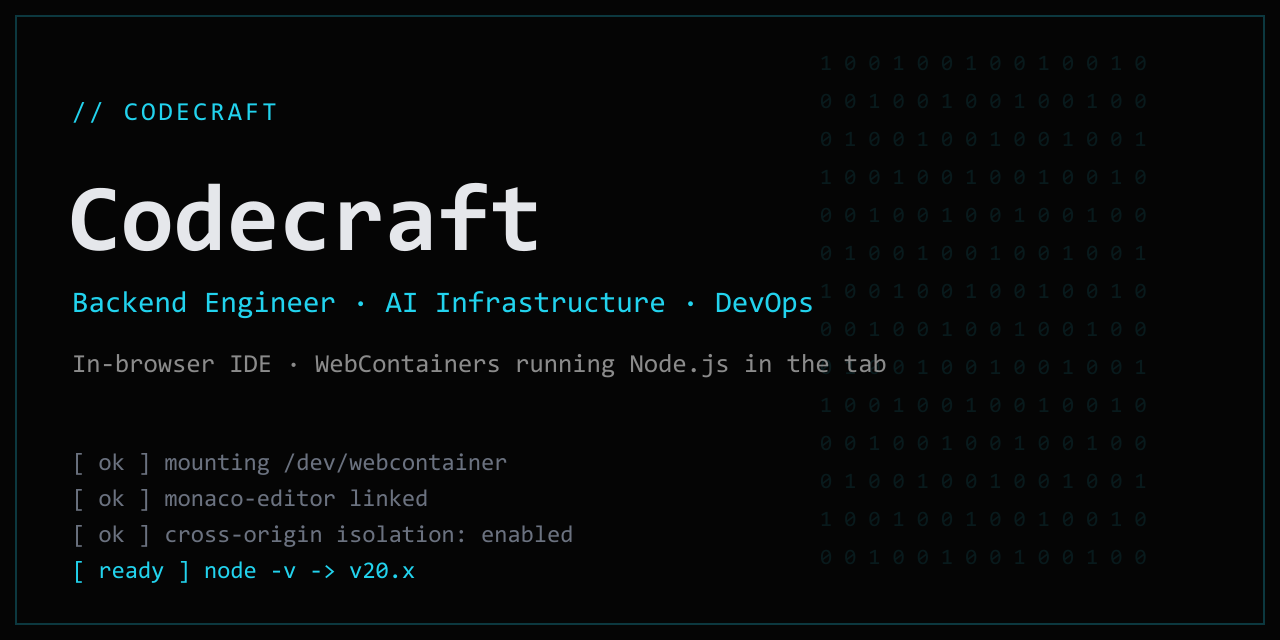
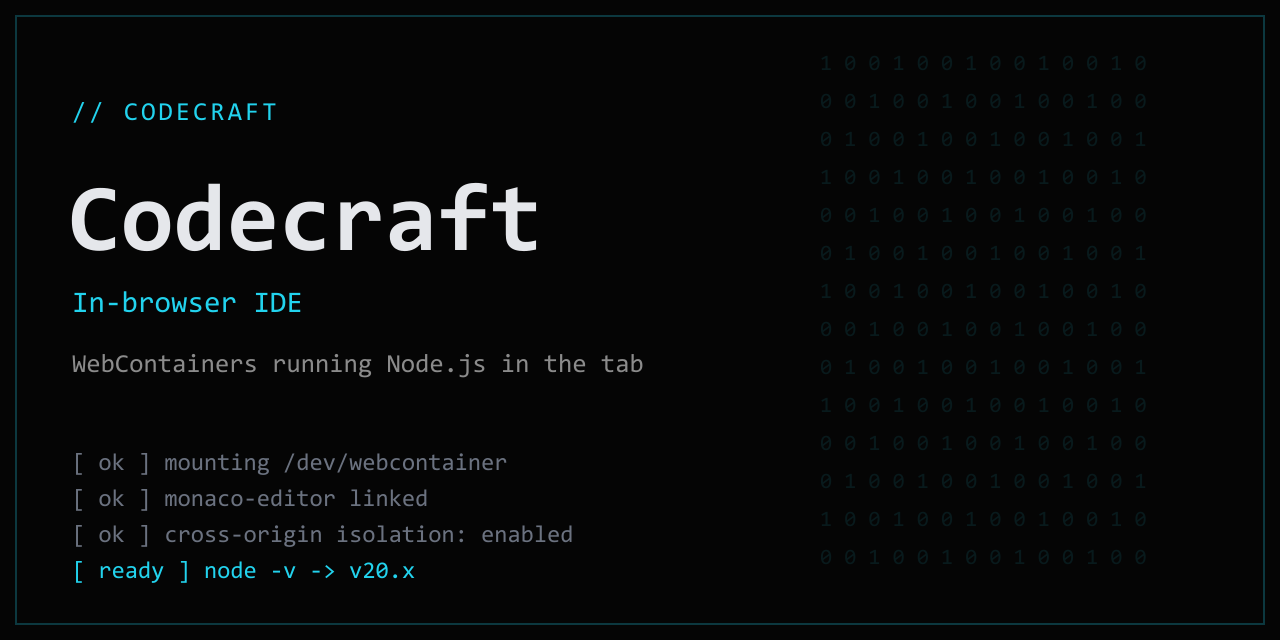
Plain language and less resume styling
- Landing: title is "Codecraft, in-browser IDE" (not the resume tagline);
  "TECHNICAL ARSENAL" -> "STACK"; hero and footer rewritten without em-dashes;
  "built live" -> "runs in the browser".
- Drop the FLAGSHIP badge and the `featured` flag (data, cards, gallery, CSS).
- ascii-boot: derive the playground count from data and drop "welcome, operator";
  also removes a setState-in-effect.
- gen-social: tagline is "In-browser IDE"; regenerated the preview image.
- Rename the package and CI image to "codecraft".
- globals.css: plain comment instead of "Teerth design DNA".
- Remove the restating component JSDoc and stray asides.
- SECURITY.md: "yes" instead of the check-mark emoji.
- Take em-dashes out of user-facing strings.

diff --git a/app/(root)/page.tsx b/app/(root)/page.tsx
@@ -11,7 +11,7 @@ import { LiveTelemetry } from "@/components/ui/live-telemetry";
 
 const playgrounds = playgroundsData as Playground[];
 
-const ARSENAL = [
+const STACK = [
   "TypeScript",
   "Node.js",
   "WebContainers",
@@ -41,17 +41,18 @@ export default function Home() {
           <BinaryBackground />
           <div className="relative z-10">
             <h1 className="font-mono text-5xl font-extrabold leading-tight tracking-tight text-foreground sm:text-6xl">
-              Codecraft — <span className="text-cyan-300">in-browser IDE</span>
+              Codecraft, <span className="text-cyan-300">in-browser IDE</span>
             </h1>
             <p className="mt-6 max-w-2xl font-mono text-sm leading-relaxed text-muted-foreground">
-              A real Vite + React dev server boots inside your browser tab via
-              WebContainers — editable Monaco editor, an interactive xterm
-              terminal wired to a live shell, and a hot-reloading preview. No
-              backend, no install.
+              A real Vite + React dev server runs inside your browser tab via
+              WebContainers. You get an editable Monaco editor, an interactive
+              xterm terminal wired to a live shell, and a hot-reloading preview.
+              No backend, no install.
             </p>
             <p className="mt-3 max-w-2xl font-mono text-xs text-muted-foreground">
-              Cold boot is 30-90s on first visit (Node + npm install run in your
-              tab); return visits restore a cached snapshot in under 20s.
+              Cold boot takes 30 to 90 seconds on the first visit (Node and npm
+              install run in your tab). Return visits restore a cached snapshot in
+              under 20 seconds.
             </p>
             <div className="mt-8 flex flex-wrap items-center gap-4">
               <Link
@@ -95,12 +96,12 @@ export default function Home() {
 
         {/* ── // TECHNICAL ARSENAL ─────────────────────────────── */}
         <section className="border-t border-border py-20">
-          <SectionLabel>TECHNICAL ARSENAL</SectionLabel>
+          <SectionLabel>STACK</SectionLabel>
           <h2 className="mt-3 font-mono text-2xl font-bold text-foreground">
             Stack
           </h2>
           <div className="mt-8 flex flex-wrap gap-3">
-            {ARSENAL.map((s) => (
+            {STACK.map((s) => (
               <TechBadge key={s} label={s} />
             ))}
           </div>
@@ -118,8 +119,8 @@ export default function Home() {
         </section>
 
         <footer className="border-t border-border py-10 font-mono text-xs text-muted-foreground">
-          <span className="text-cyan-400">{"//"}</span> codecraft — built live in
-          the browser
+          <span className="text-cyan-400">{"//"}</span> codecraft, runs in the
+          browser
         </footer>
       </div>
     </>

diff --git a/components/ui/ascii-boot.tsx b/components/ui/ascii-boot.tsx
@@ -1,30 +1,36 @@
 "use client";
 
-import { useEffect, useState } from "react";
+import { useEffect, useRef, useState } from "react";
+
+import playgroundsData from "@/data/playgrounds.json";
+
+const PLAYGROUND_COUNT = (playgroundsData as unknown[]).length;
 
 const BOOT_LINES = [
   "$ codecraft --boot",
   "[ ok ] mounting /dev/webcontainer",
   "[ ok ] linking monaco-editor",
   "[ ok ] cross-origin isolation: enabled",
-  "[ ok ] loading playgrounds … 4 found",
-  "[ ready ] welcome, operator",
+  `[ ok ] loading playgrounds … ${PLAYGROUND_COUNT} found`,
+  "[ ready ] codecraft",
 ];
 
 const SESSION_KEY = "cc_boot_played";
 
 /**
- * <AsciiBoot> — one-time-per-session boot sequence overlay. Gated on
- * sessionStorage so it plays once, then never again until a new tab/session.
+ * One-time-per-session boot overlay. Gated on sessionStorage so it plays once,
+ * then not again until a new tab/session.
  */
 export function AsciiBoot() {
-  const [active, setActive] = useState(false);
   const [shown, setShown] = useState(0);
+  const [done, setDone] = useState(false);
+  const startedRef = useRef(false);
 
   useEffect(() => {
     if (typeof window === "undefined") return;
+    if (startedRef.current) return;
+    startedRef.current = true;
     if (sessionStorage.getItem(SESSION_KEY)) return; // already played this session
-    setActive(true);
 
     let line = 0;
     const id = window.setInterval(() => {
@@ -34,7 +40,7 @@ export function AsciiBoot() {
         window.clearInterval(id);
         window.setTimeout(() => {
           sessionStorage.setItem(SESSION_KEY, "1");
-          setActive(false);
+          setDone(true);
         }, 650);
       }
     }, 260);
@@ -42,7 +48,8 @@ export function AsciiBoot() {
     return () => window.clearInterval(id);
   }, []);
 
-  if (!active) return null;
+  // Nothing before the first tick, and nothing once the sequence has finished.
+  if (done || shown === 0) return null;
 
   return (
     <div

diff --git a/routes.ts b/routes.ts
@@ -1,14 +1,7 @@
-/**
- * Routes accessible to the public — no authentication required.
- *
- * The landing page, the playground list, and the live WebContainer playgrounds
- * are deliberately public: codecraft is a portfolio demo and a recruiter must be
- * able to open the editor without signing in. An entry that ends in "/*" matches
- * any path under that prefix (see `isPublicRoute` in proxy.ts), which is how
- * the dynamic `/playground/[id]` routes are covered.
- *
- * @type {string[]}
- */
+// Public routes — no authentication. The landing page, the gallery, and the
+// live playgrounds are deliberately open so the editor opens without signing in.
+// An entry ending in "/*" matches any path under that prefix (see isPublicRoute
+// in proxy.ts), which covers the dynamic /playground/[id] routes.
 export const publicRoutes: string[] = [
   "/",
   "/playgrounds",
@@ -17,27 +10,18 @@ export const publicRoutes: string[] = [
   "/api/now",
 ];
 
-/**
- * Routes that require authentication.
- * @type {string[]}
- */
+// Routes that require authentication.
 export const protectedRoutes: string[] = [
   "/dashboard",
   "/settings",
 ];
 
-/**
- * Auth routes. A signed-in user hitting one of these is redirected home.
- * @type {string[]}
- */
+// Auth routes. A signed-in user hitting one of these is redirected home.
 export const authRoutes: string[] = [
   "/auth/sign-in",
 ];
 
-/**
- * Routes under this prefix (the NextAuth handlers) always bypass the auth gate.
- * @type {string}
- */
+// Anything under this prefix (the NextAuth handlers) bypasses the auth gate.
 export const apiAuthPrefix: string = "/api/auth";
 
-export const DEFAULT_LOGIN_REDIRECT = "/"; // redirect home after login
+export const DEFAULT_LOGIN_REDIRECT = "/";

diff --git a/components/ui/project-card.tsx b/components/ui/project-card.tsx
@@ -9,21 +9,13 @@ export type Playground = {
   description: string;
   tags: string[];
   demo?: string;
-  featured?: boolean;
 };
 
-/**
- * <ProjectCard> — playground card. Mechanical hover (scale 1.02 + cyan border,
- * no shadow) via .cc-card. Flagship variant adds cyan ring + glow via .cc-flagship.
- * Always links to a real /playground/<slug> — never undefined.
- */
 export function ProjectCard({ project }: { project: Playground }) {
   return (
     <Link
       href={`/playground/${project.slug}`}
-      className={`group block p-6 no-underline ${
-        project.featured ? "cc-card cc-flagship" : "cc-card"
-      }`}
+      className="group block cc-card p-6 no-underline"
     >
       <div className="flex items-start justify-between gap-4">
         <div>
@@ -34,13 +26,7 @@ export function ProjectCard({ project }: { project: Playground }) {
             {project.tagline}
           </p>
         </div>
-        {project.featured ? (
-          <span className="shrink-0 rounded border border-cyan-400/40 bg-cyan-400/10 px-2 py-0.5 font-mono text-[10px] text-cyan-300">
-            FLAGSHIP
-          </span>
-        ) : (
-          <ArrowUpRight className="h-4 w-4 shrink-0 text-muted-foreground transition-colors group-hover:text-cyan-400" />
-        )}
+        <ArrowUpRight className="h-4 w-4 shrink-0 text-muted-foreground transition-colors group-hover:text-cyan-400" />
       </div>
 
       <p className="mt-3 text-sm leading-relaxed text-muted-foreground">

diff --git a/components/ui/binary-background.tsx b/components/ui/binary-background.tsx
@@ -2,10 +2,8 @@
 
 import { useEffect, useRef } from "react";
 
-/**
- * <BinaryBackground> — hero canvas of falling binary, ~30 columns, ~8% opacity,
- * cyan glyphs. Pure decoration; pointer-events disabled. Respects reduced motion.
- */
+// Decorative hero canvas of falling binary. Pointer-events off; respects
+// prefers-reduced-motion (renders a single static frame).
 export function BinaryBackground() {
   const ref = useRef<HTMLCanvasElement>(null);
 
@@ -55,7 +53,7 @@ export function BinaryBackground() {
           const row = head - r;
           if (row < 0) continue;
           const y = (row % rows()) * fontSize;
-          // deterministic glyph — no Math.random (forbidden in this env anyway)
+          // deterministic glyph so the animation is stable frame to frame
           const bit = (i + row + frame) % 3 === 0 ? "1" : "0";
           ctx.fillText(bit, x, y);
         }

diff --git a/app/globals.css b/app/globals.css
@@ -123,8 +123,7 @@
   }
 }
 
-/* ── Teerth design DNA ─────────────────────────────────────────── */
-/* Accent cyan #22d3ee ONLY. Tokens in :root, no @apply of undefined utils. */
+/* Theme tokens. Accent cyan is the only accent colour. */
 :root {
   --accent-cyan: #22d3ee;
 }
@@ -163,15 +162,4 @@
   transform: scale(1.02);
   border-color: var(--accent-cyan);
   box-shadow: none;
-}
-
-/* Flagship card: cyan ring + glow. */
-.cc-flagship {
-  border-color: rgba(34, 211, 238, 0.5);
-  box-shadow: 0 0 0 1px rgba(34, 211, 238, 0.6), 0 0 28px rgba(34, 211, 238, 0.25);
-}
-.cc-flagship:hover {
-  transform: scale(1.02);
-  border-color: var(--accent-cyan);
-  box-shadow: 0 0 0 1px rgba(34, 211, 238, 0.9), 0 0 40px rgba(34, 211, 238, 0.35);
 }

diff --git a/app/playgrounds/page.tsx b/app/playgrounds/page.tsx
@@ -27,11 +27,6 @@ export default function PlaygroundsPage() {
                   </h3>
                   <p className="text-xs text-muted-foreground font-mono mt-1">{t.tagline}</p>
                 </div>
-                {t.featured && (
-                  <span className="text-[10px] font-mono bg-cyan-400/10 text-cyan-400 border border-cyan-400/30 px-2 py-0.5 rounded">
-                    FLAGSHIP
-                  </span>
-                )}
               </div>
               <p className="text-sm text-muted-foreground mt-3 leading-relaxed">{t.description}</p>
               <div className="flex flex-wrap gap-2 mt-4">

diff --git a/components/playground/web-playground.tsx b/components/playground/web-playground.tsx
@@ -50,13 +50,6 @@ const PHASE_LABEL: Record<BootPhase, string> = {
   unavailable: "unavailable",
 };
 
-/**
- * <WebPlayground> — boots a real WebContainer, mounts the Vite + React template
- * (or a cached snapshot), runs `npm install && npm run dev`, and presents a real
- * IDE: an editable Monaco editor whose debounced writes hot-reload the preview,
- * an interactive xterm terminal wired to a `jsh` shell, and a live preview
- * iframe — all in resizable panes. Mobile viewports get a desktop-only hint.
- */
 export function WebPlayground({ name }: { name: string }) {
   const isMobile = useIsMobile();
   const {

diff --git a/components/playground/code-editor.tsx b/components/playground/code-editor.tsx
@@ -86,14 +86,6 @@ function languageFor(path: string): string {
   return "plaintext";
 }
 
-/**
- * <CodeEditor> — an editable Monaco editor over the WebContainer's files. A
- * file tree on the left switches the active file; edits are debounced (~300ms)
- * and written into the WebContainer FS, so Vite's HMR hot-reloads the preview.
- *
- * Files are seeded from the static template, then re-read live from the
- * container once it's ready (so snapshot-restored edits show their real state).
- */
 export function CodeEditor({
   containerReady,
   writeFile,

diff --git a/components/playground/interactive-terminal.tsx b/components/playground/interactive-terminal.tsx
@@ -4,12 +4,6 @@ import "@xterm/xterm/css/xterm.css";
 import { useEffect, useRef } from "react";
 import type { WebContainerProcess } from "@webcontainer/api";
 
-/**
- * <InteractiveTerminal> — an xterm.js terminal wired to a real WebContainer
- * shell process (`jsh`). Boot/install logs stream in via `registerSink`; once a
- * `shell` is provided, keystrokes are piped to the shell's stdin so the user can
- * run `ls`, `cat package.json`, `npm install dayjs`, etc. and see real output.
- */
 export function InteractiveTerminal({
   shell,
   registerSink,

diff --git a/components/playground/template-not-found.tsx b/components/playground/template-not-found.tsx
@@ -1,10 +1,8 @@
 import Link from "next/link";
 import { ArrowRight } from "lucide-react";
 
-/**
- * Friendly 200 page for unknown template slugs (e.g. /playground/test).
- * Replaces the old 500. Text "Template not found" is asserted by the gate.
- */
+// Friendly 200 for unknown template slugs. The smoke test asserts the
+// "Template not found" copy, so keep that wording.
 export function TemplateNotFound() {
   return (
     <div className="flex min-h-screen flex-col items-center justify-center px-4 font-mono">

diff --git a/hooks/use-vite-webcontainer.ts b/hooks/use-vite-webcontainer.ts
@@ -96,8 +96,6 @@ async function snapshotFitsBudget(
  * Boots a WebContainer, mounts the Vite + React template, and either restores a
  * cached node_modules snapshot (fast path) or runs `npm install` (cold path),
  * then starts the Vite dev server and spawns an interactive `jsh` shell.
- *
- * All real timings are measured with performance.now() — nothing hardcoded.
  */
 export function useViteWebContainer(): UseViteWebContainer {
   const [phase, setPhase] = useState<BootPhase>("idle");
